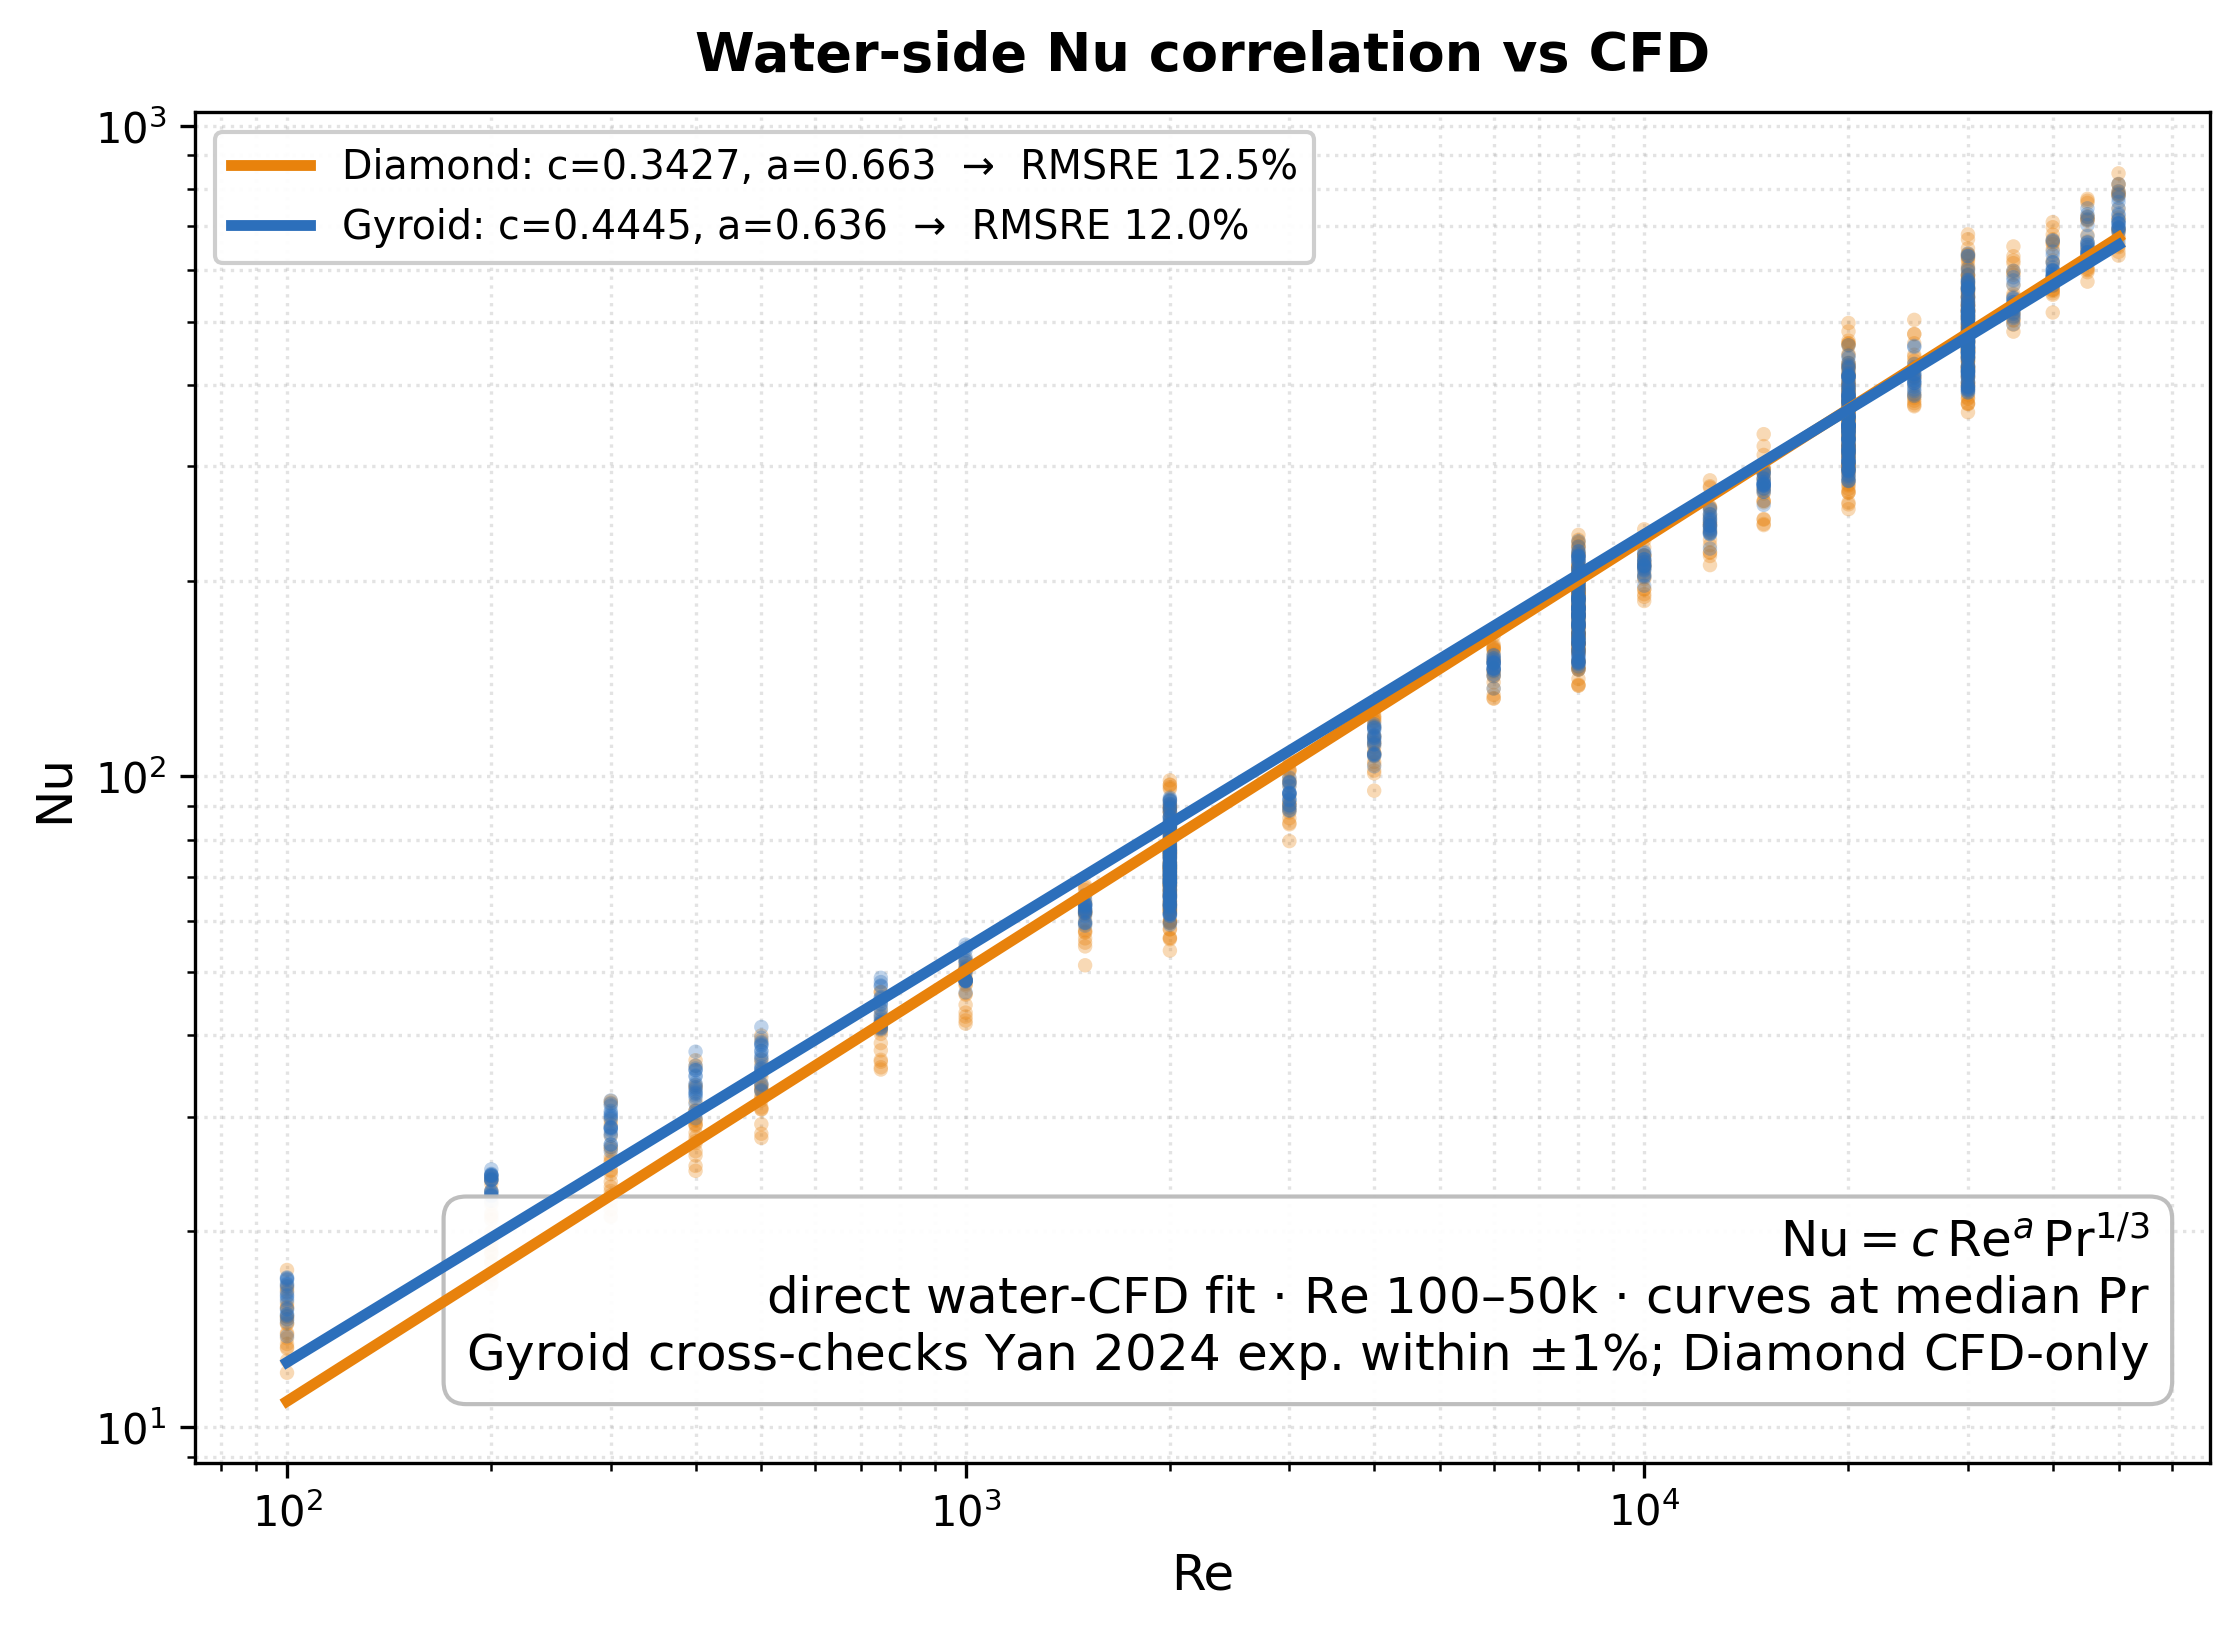
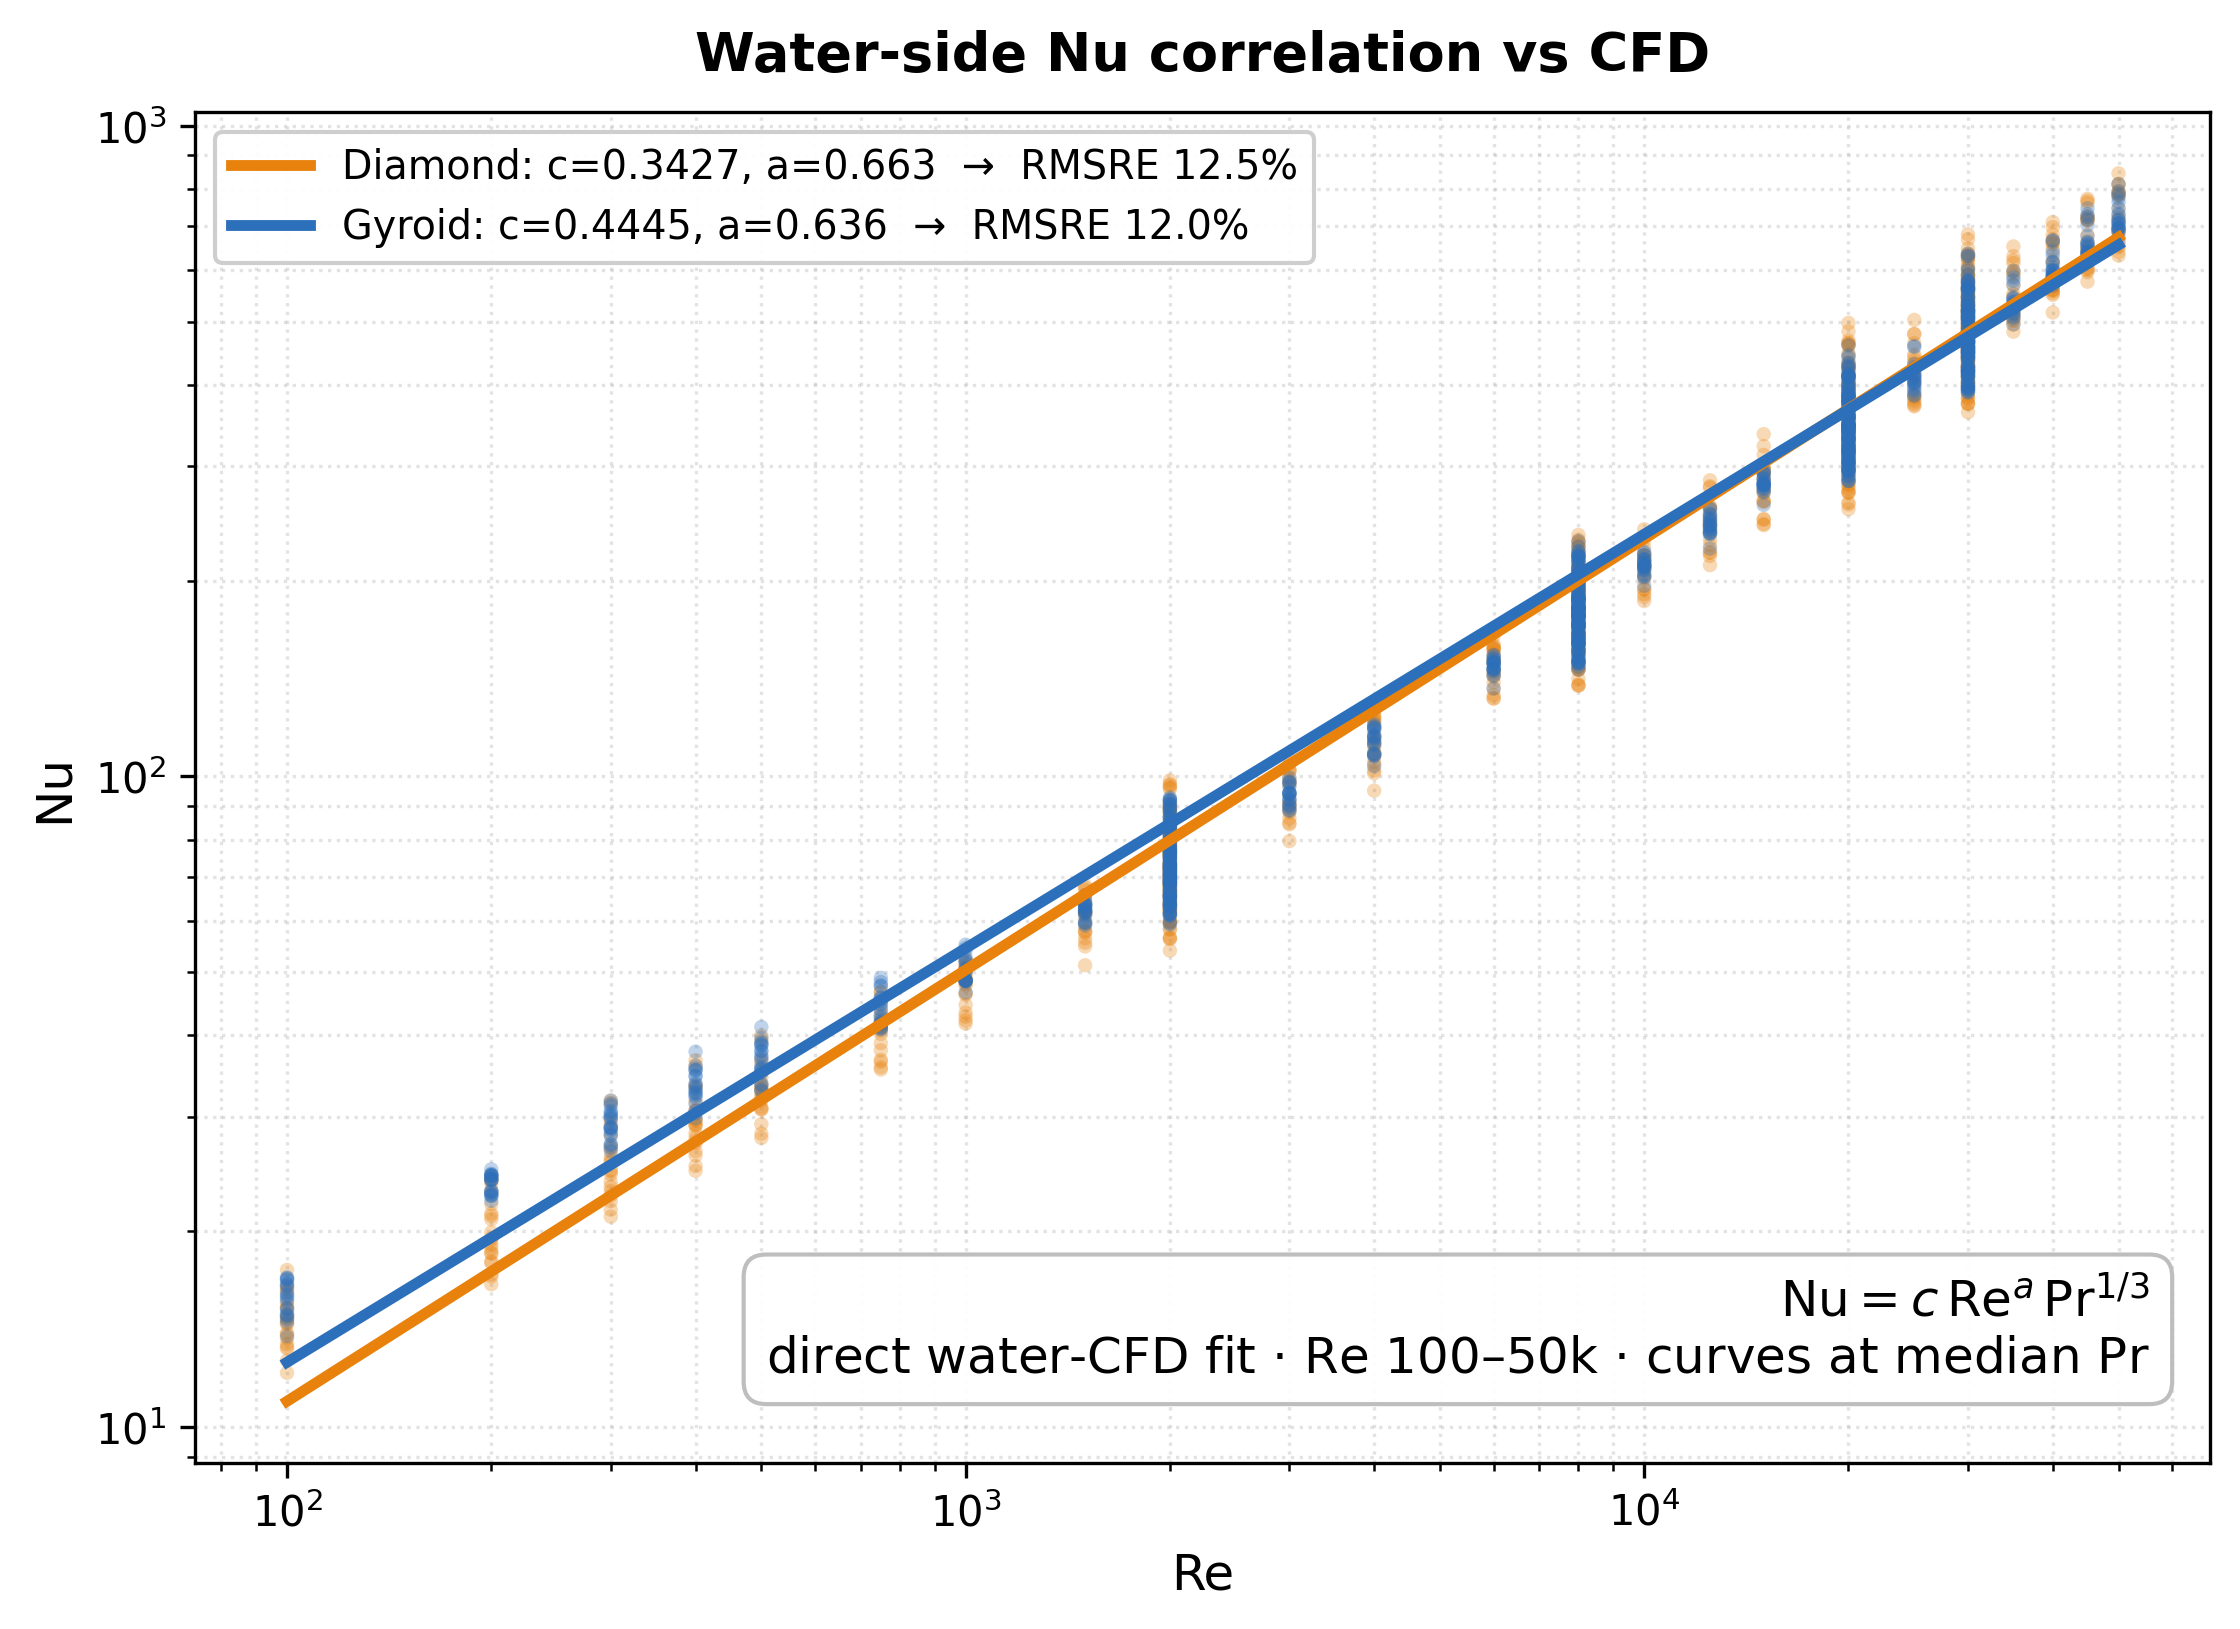
docs(readme): drop Yan 2024 reference from the water-side Nu figure
Per request — the water Nu figure and its README caption no longer mention the
Yan 2024 cross-check. Water Nu is now presented purely as the direct water-CFD
fit (RMSRE ≈ 12 %). Also removed the Yan note from the Closures table row.

diff --git a/README.md b/README.md
@@ -67,7 +67,7 @@
 | Layer | Capability |
 |-------|------------|
 | **Geometry** | Diamond + Gyroid TPMS sheet HX, parameterised by cell size `a` and wall thickness `t` |
-| **Closures** | Darcy–Forchheimer surrogate (`gamma_df` default: smooth-CFD × experimental roughness γ) · dual Nusselt power-laws fit **per-topology** (Diamond/Gyroid) to CFD — **air** ×1.28 SLM-roughness, **water** direct (cross-checks Yan 2024) |
+| **Closures** | Darcy–Forchheimer surrogate (`gamma_df` default: smooth-CFD × experimental roughness γ) · dual Nusselt power-laws fit **per-topology** (Diamond/Gyroid) to CFD — **air** ×1.28 SLM-roughness, **water** direct |
 | **2D solver** | SIMPLE (Patankar), ideal-gas air, Brinkman–Forchheimer porous core |
 | **3D solver** | full SIMPLE 3D **+** Streamfunction–Pressure formulation with a 3D Pressure-Poisson solve (Helmholtz machine-ε mass conservation) · **mass-flux inlet** (ideal-gas) by default |
 | **Lumped** | ε-NTU dual-Nu cross-flow — `validate_shanghai_lumped_dual_nu.py` |
@@ -89,10 +89,10 @@
 
 <table><tr>
 <td><img src="assets/nu-air-error.png" width="100%" alt="Air-side Nu vs Re — CFD scatter and solver correlation curves for Diamond (orange, RMSRE 10.1%) and Gyroid (blue, RMSRE 9.9%), Nu = c·Pr^(1/3)·Re^a·(Dh/L)^d, smooth-wall, Re 400-16k, dashed = x1.28 production roughness."></td>
-<td><img src="assets/nu-water-error.png" width="100%" alt="Water-side Nu vs Re — CFD scatter and solver correlation curves for Diamond (orange, RMSRE 12.5%) and Gyroid (blue, RMSRE 12.0%), Nu = c·Re^a·Pr^(1/3), Re 100-50k, Pr 2.3-5.9."></td>
+<td><img src="assets/nu-water-error.png" width="100%" alt="Water-side Nu vs Re — CFD scatter and solver correlation curves for Diamond (orange, RMSRE 12.5%) and Gyroid (blue, RMSRE 12.0%), Nu = c·Re^a·Pr^(1/3), direct water-CFD fit, Re 100-50k, Pr 2.3-5.9."></td>
 </tr></table>
 
-<sub>Per-topology **Nusselt** power-laws (the solver's own coefficients, `solvers/nu_correlations.py`) — Nu vs Re over the full CFD fit set (**Diamond** orange · **Gyroid** blue). **Air** `Nu = c·Pr^⅓·Re^a·(Dh/L)^d` — smooth-wall fit RMSRE ≈ 10 %; production multiplies by **×1.28** experiment-derived SLM roughness (dashed). **Water** `Nu = c·Re^a·Pr^⅓` — fit to **water-CFD only** (RMSRE ≈ 12 %); Gyroid cross-checks the **Yan 2024 experiment within ±1 %**, Diamond is CFD-only (no Diamond water experiment).</sub>
+<sub>Per-topology **Nusselt** power-laws (the solver's own coefficients, `solvers/nu_correlations.py`) — Nu vs Re over the full CFD fit set (**Diamond** orange · **Gyroid** blue). **Air** `Nu = c·Pr^⅓·Re^a·(Dh/L)^d` — smooth-wall fit RMSRE ≈ 10 %; production multiplies by **×1.28** experiment-derived SLM roughness (dashed). **Water** `Nu = c·Re^a·Pr^⅓` — direct fit to **water-CFD** (RMSRE ≈ 12 %).</sub>
 
 </div>
 
